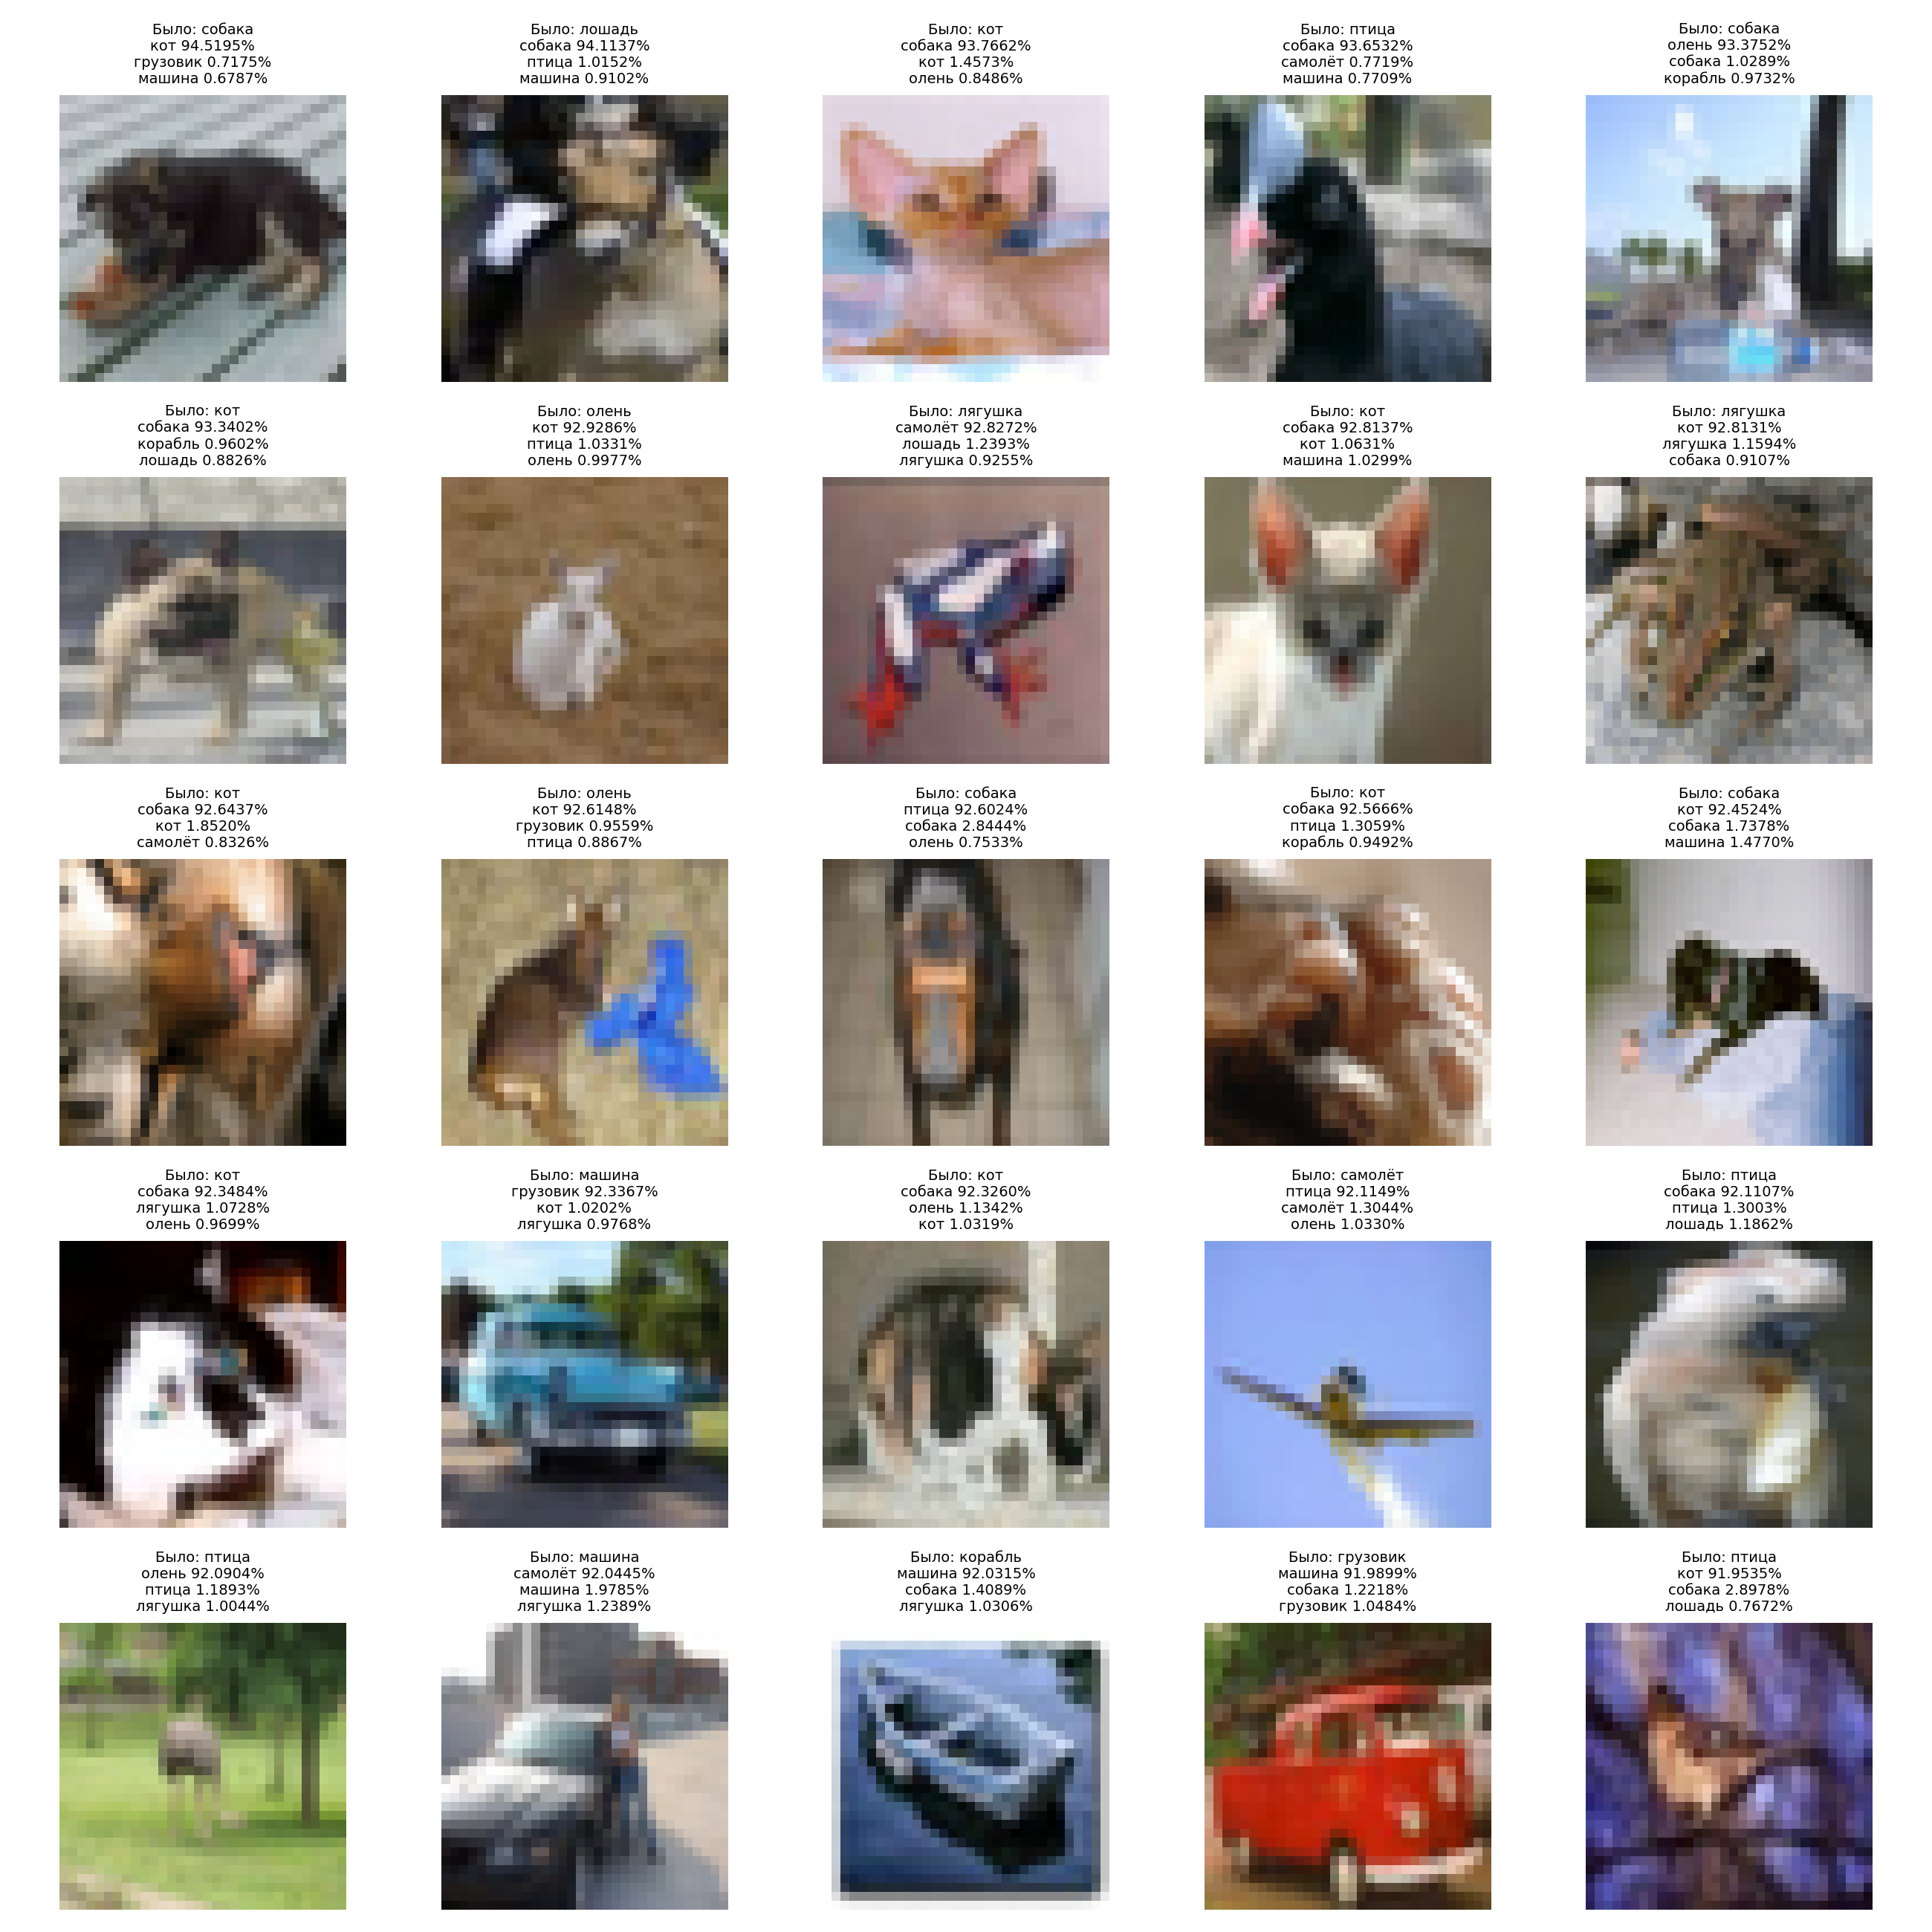
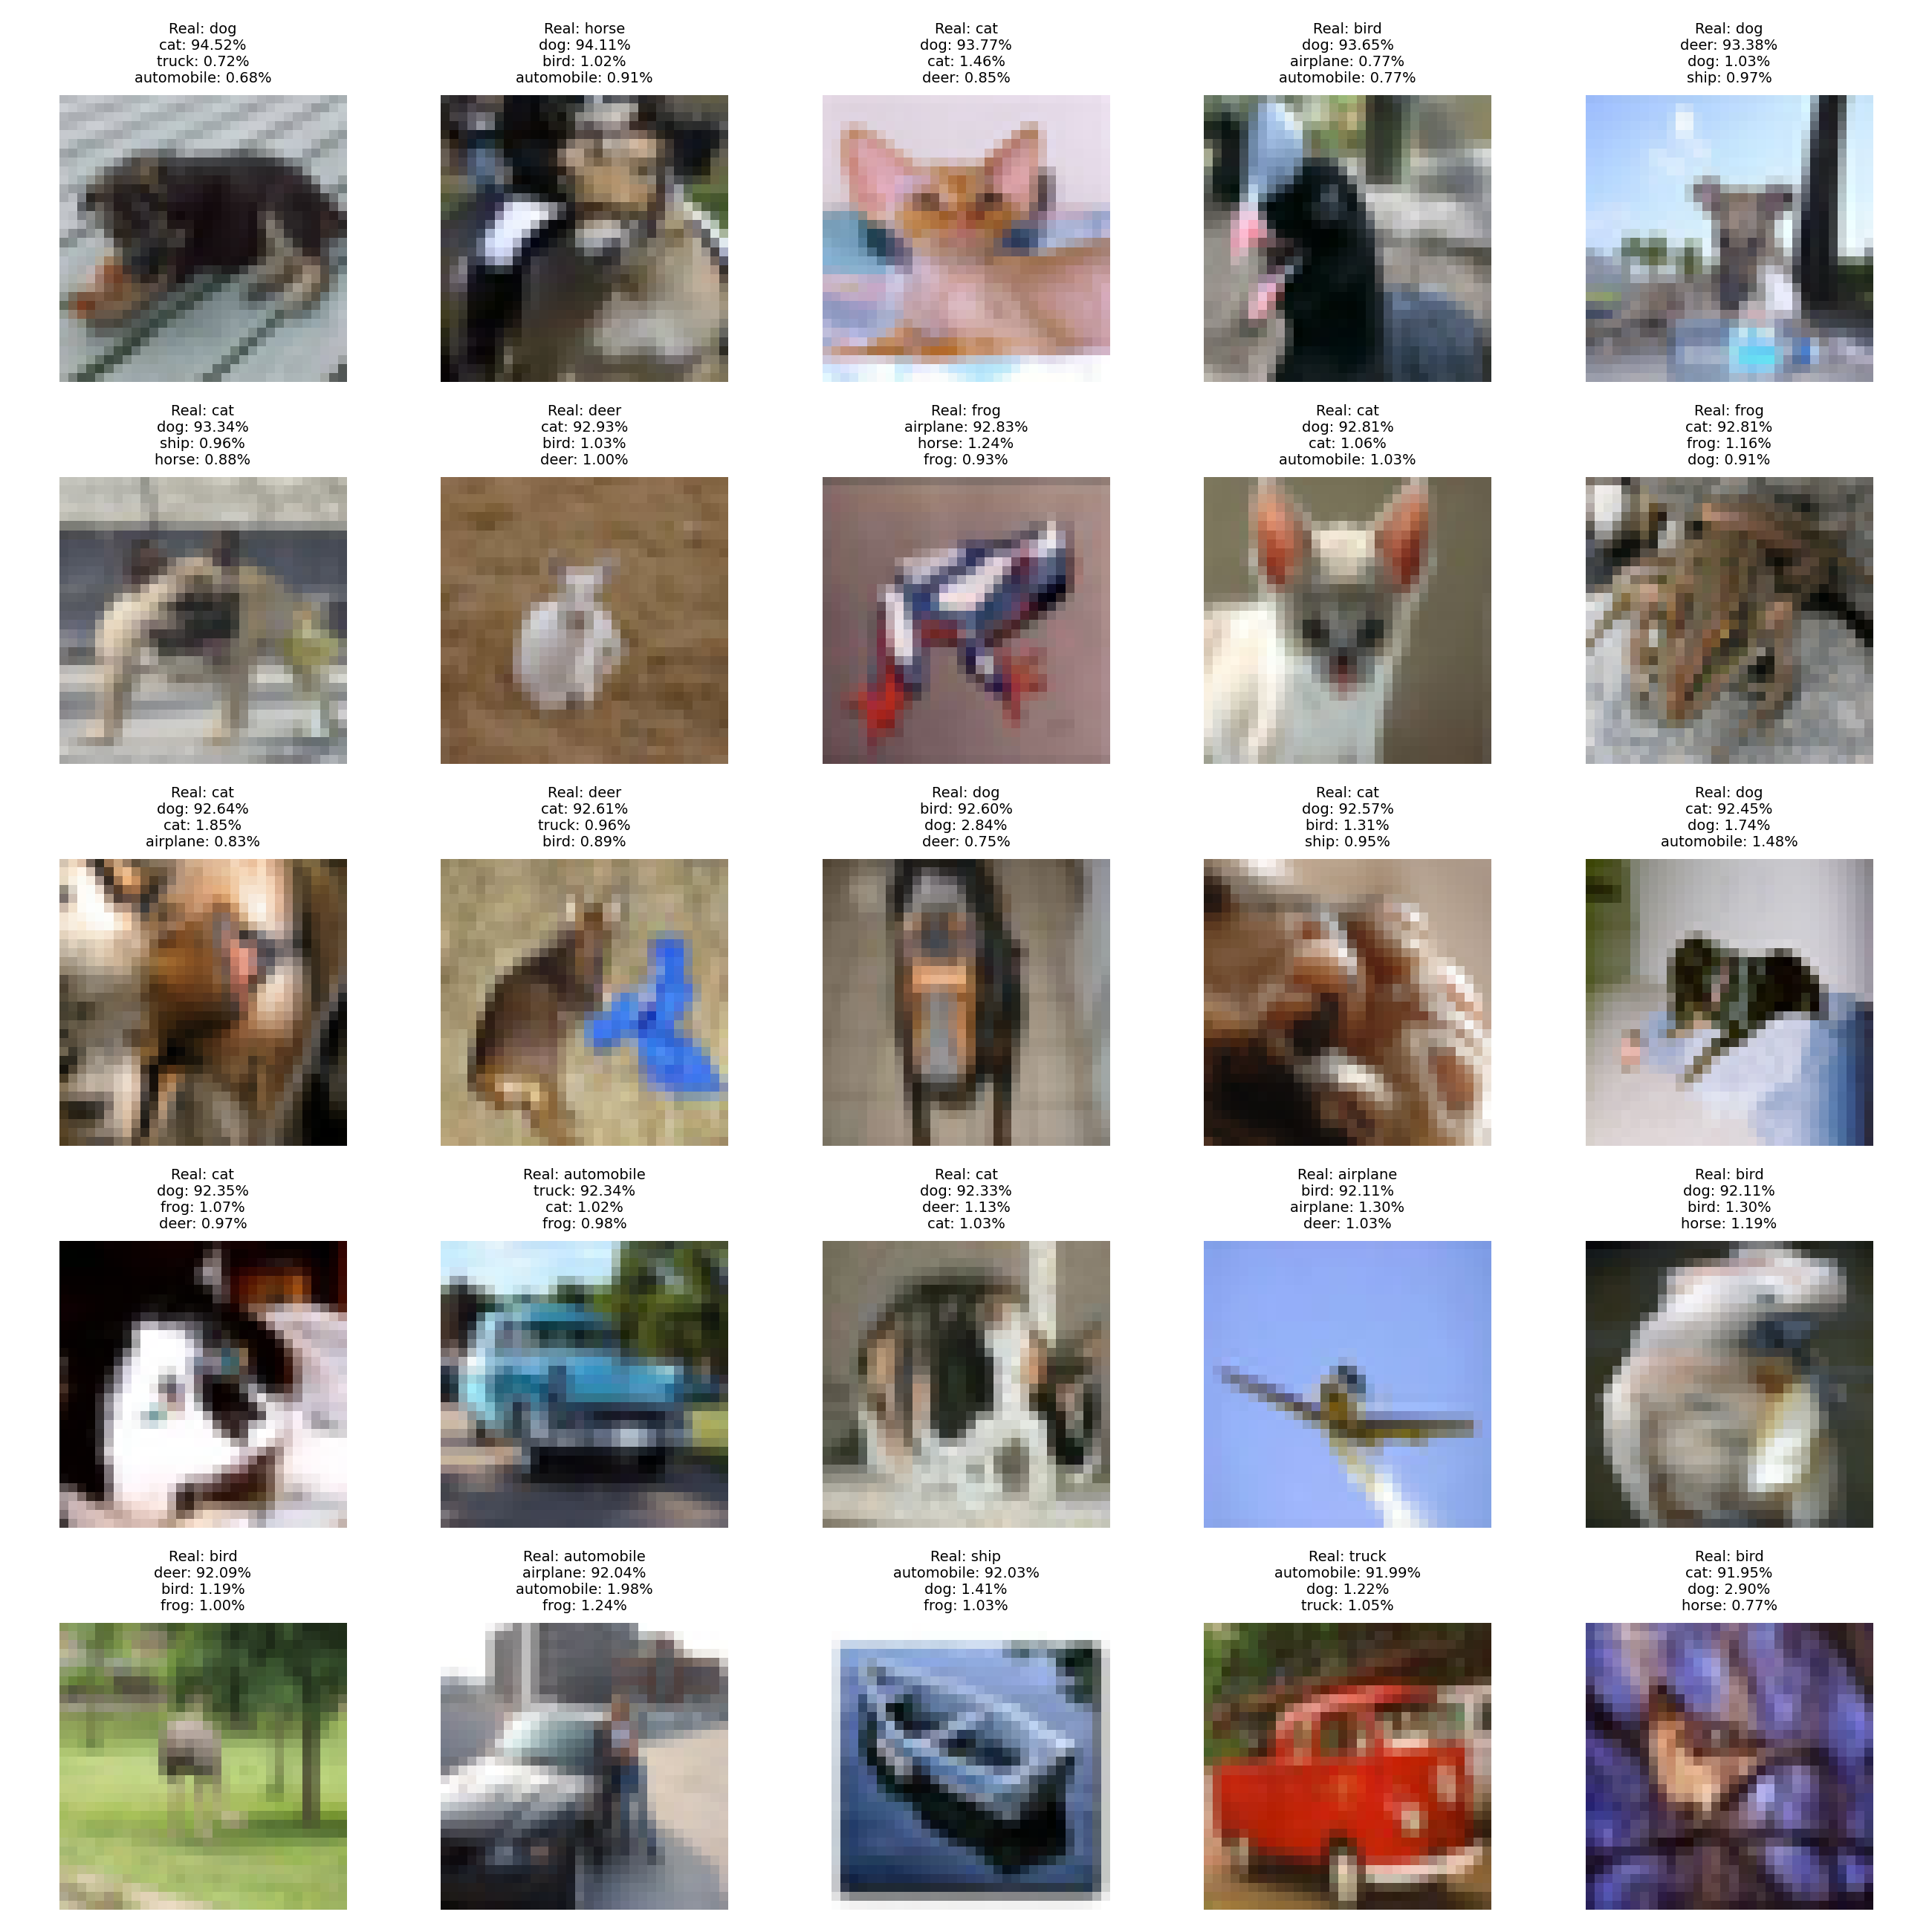
Add mistake visualization pipeline

diff --git a/visualize_mistakes.py b/visualize_mistakes.py
@@ -1,0 +1,174 @@
+import argparse
+from pathlib import Path
+
+import matplotlib.pyplot as plt
+import torch
+
+from src.config import (
+    BASE_DIR,
+    MODELS_DIR,
+    IMAGES_DIR,
+    BEST_MODEL_PATH,
+    CLASSES,
+)
+from src.data import get_dataloaders
+from src.model import CifarResNet18
+from src.utils import get_device, denormalize
+
+
+def resolve_model_path(model_path: str | None) -> Path:
+    if model_path is None:
+        return BEST_MODEL_PATH
+
+    path = Path(model_path)
+
+    candidates = [
+        path,
+        MODELS_DIR / path,
+        BASE_DIR / path,
+    ]
+
+    for candidate in candidates:
+        if candidate.exists():
+            return candidate
+
+    raise FileNotFoundError(
+        f"Model checkpoint not found: {model_path}\n"
+        f"Checked:\n" + "\n".join(str(candidate) for candidate in candidates)
+    )
+
+
+def collect_mistakes(model, test_loader, device):
+    mistakes = []
+
+    model.eval()
+
+    with torch.no_grad():
+        for images, labels in test_loader:
+            images = images.to(device)
+            labels = labels.to(device)
+
+            outputs = model(images)
+            probabilities = torch.softmax(outputs, dim=1)
+
+            top_probs, top_classes = torch.topk(probabilities, k=3, dim=1)
+            predictions = top_classes[:, 0]
+            confidences = top_probs[:, 0]
+
+            for index in range(len(images)):
+                real = labels[index].item()
+                predicted = predictions[index].item()
+
+                if real != predicted:
+                    mistakes.append(
+                        {
+                            "image": images[index].cpu(),
+                            "real": real,
+                            "predicted": predicted,
+                            "confidence": confidences[index].cpu().item(),
+                            "top_probs": top_probs[index].cpu(),
+                            "top_classes": top_classes[index].cpu(),
+                        }
+                    )
+
+    return mistakes
+
+
+def save_mistakes_grid(mistakes, output_path: Path, limit: int = 25):
+    mistakes = sorted(
+        mistakes,
+        key=lambda item: item["confidence"],
+        reverse=True,
+    )
+
+    selected_mistakes = mistakes[:limit]
+
+    grid_size = int(limit ** 0.5)
+
+    if grid_size * grid_size < limit:
+        grid_size += 1
+
+    plt.figure(figsize=(13, 13))
+
+    for index, mistake in enumerate(selected_mistakes):
+        image = denormalize(mistake["image"]).clamp(0, 1)
+        image = image.permute(1, 2, 0).numpy()
+
+        real_class = CLASSES[mistake["real"]]
+
+        top_lines = []
+
+        for probability, class_index in zip(mistake["top_probs"], mistake["top_classes"]):
+            class_name = CLASSES[class_index.item()]
+            percent = probability.item() * 100
+            top_lines.append(f"{class_name}: {percent:.2f}%")
+
+        title = f"Real: {real_class}\n" + "\n".join(top_lines)
+
+        plt.subplot(grid_size, grid_size, index + 1)
+        plt.imshow(image)
+        plt.title(title, fontsize=7)
+        plt.axis("off")
+
+    plt.tight_layout()
+    plt.savefig(output_path, dpi=200)
+    plt.close()
+
+
+def parse_args():
+    parser = argparse.ArgumentParser(description="Visualize most confident CIFAR-10 mistakes")
+
+    parser.add_argument(
+        "--model-path",
+        type=str,
+        default=None,
+        help="Path to model checkpoint. Default: models/cifar_resnet18_smooth_erasing_best.pth",
+    )
+
+    parser.add_argument("--batch-size", type=int, default=128)
+    parser.add_argument("--num-workers", type=int, default=2)
+    parser.add_argument("--limit", type=int, default=25)
+
+    parser.add_argument(
+        "--output",
+        type=str,
+        default="cifar_resnet_mistakes.png",
+        help="Output image filename inside images/",
+    )
+
+    return parser.parse_args()
+
+
+def main():
+    args = parse_args()
+
+    device = get_device()
+    print(f"Используется устройство: {device}")
+
+    model_path = resolve_model_path(args.model_path)
+    print(f"Загружаем модель: {model_path}")
+
+    _, test_loader = get_dataloaders(
+        batch_size=args.batch_size,
+        num_workers=args.num_workers,
+        use_random_erasing=False,
+    )
+
+    model = CifarResNet18().to(device)
+    model.load_state_dict(torch.load(model_path, map_location=device))
+
+    mistakes = collect_mistakes(model, test_loader, device)
+
+    print(f"Всего ошибок найдено: {len(mistakes)}")
+    print(f"Показываем самых уверенных ошибок: {min(args.limit, len(mistakes))}")
+
+    IMAGES_DIR.mkdir(parents=True, exist_ok=True)
+
+    output_path = IMAGES_DIR / args.output
+    save_mistakes_grid(mistakes, output_path, limit=args.limit)
+
+    print(f"Картинка сохранена: {output_path}")
+
+
+if __name__ == "__main__":
+    main()